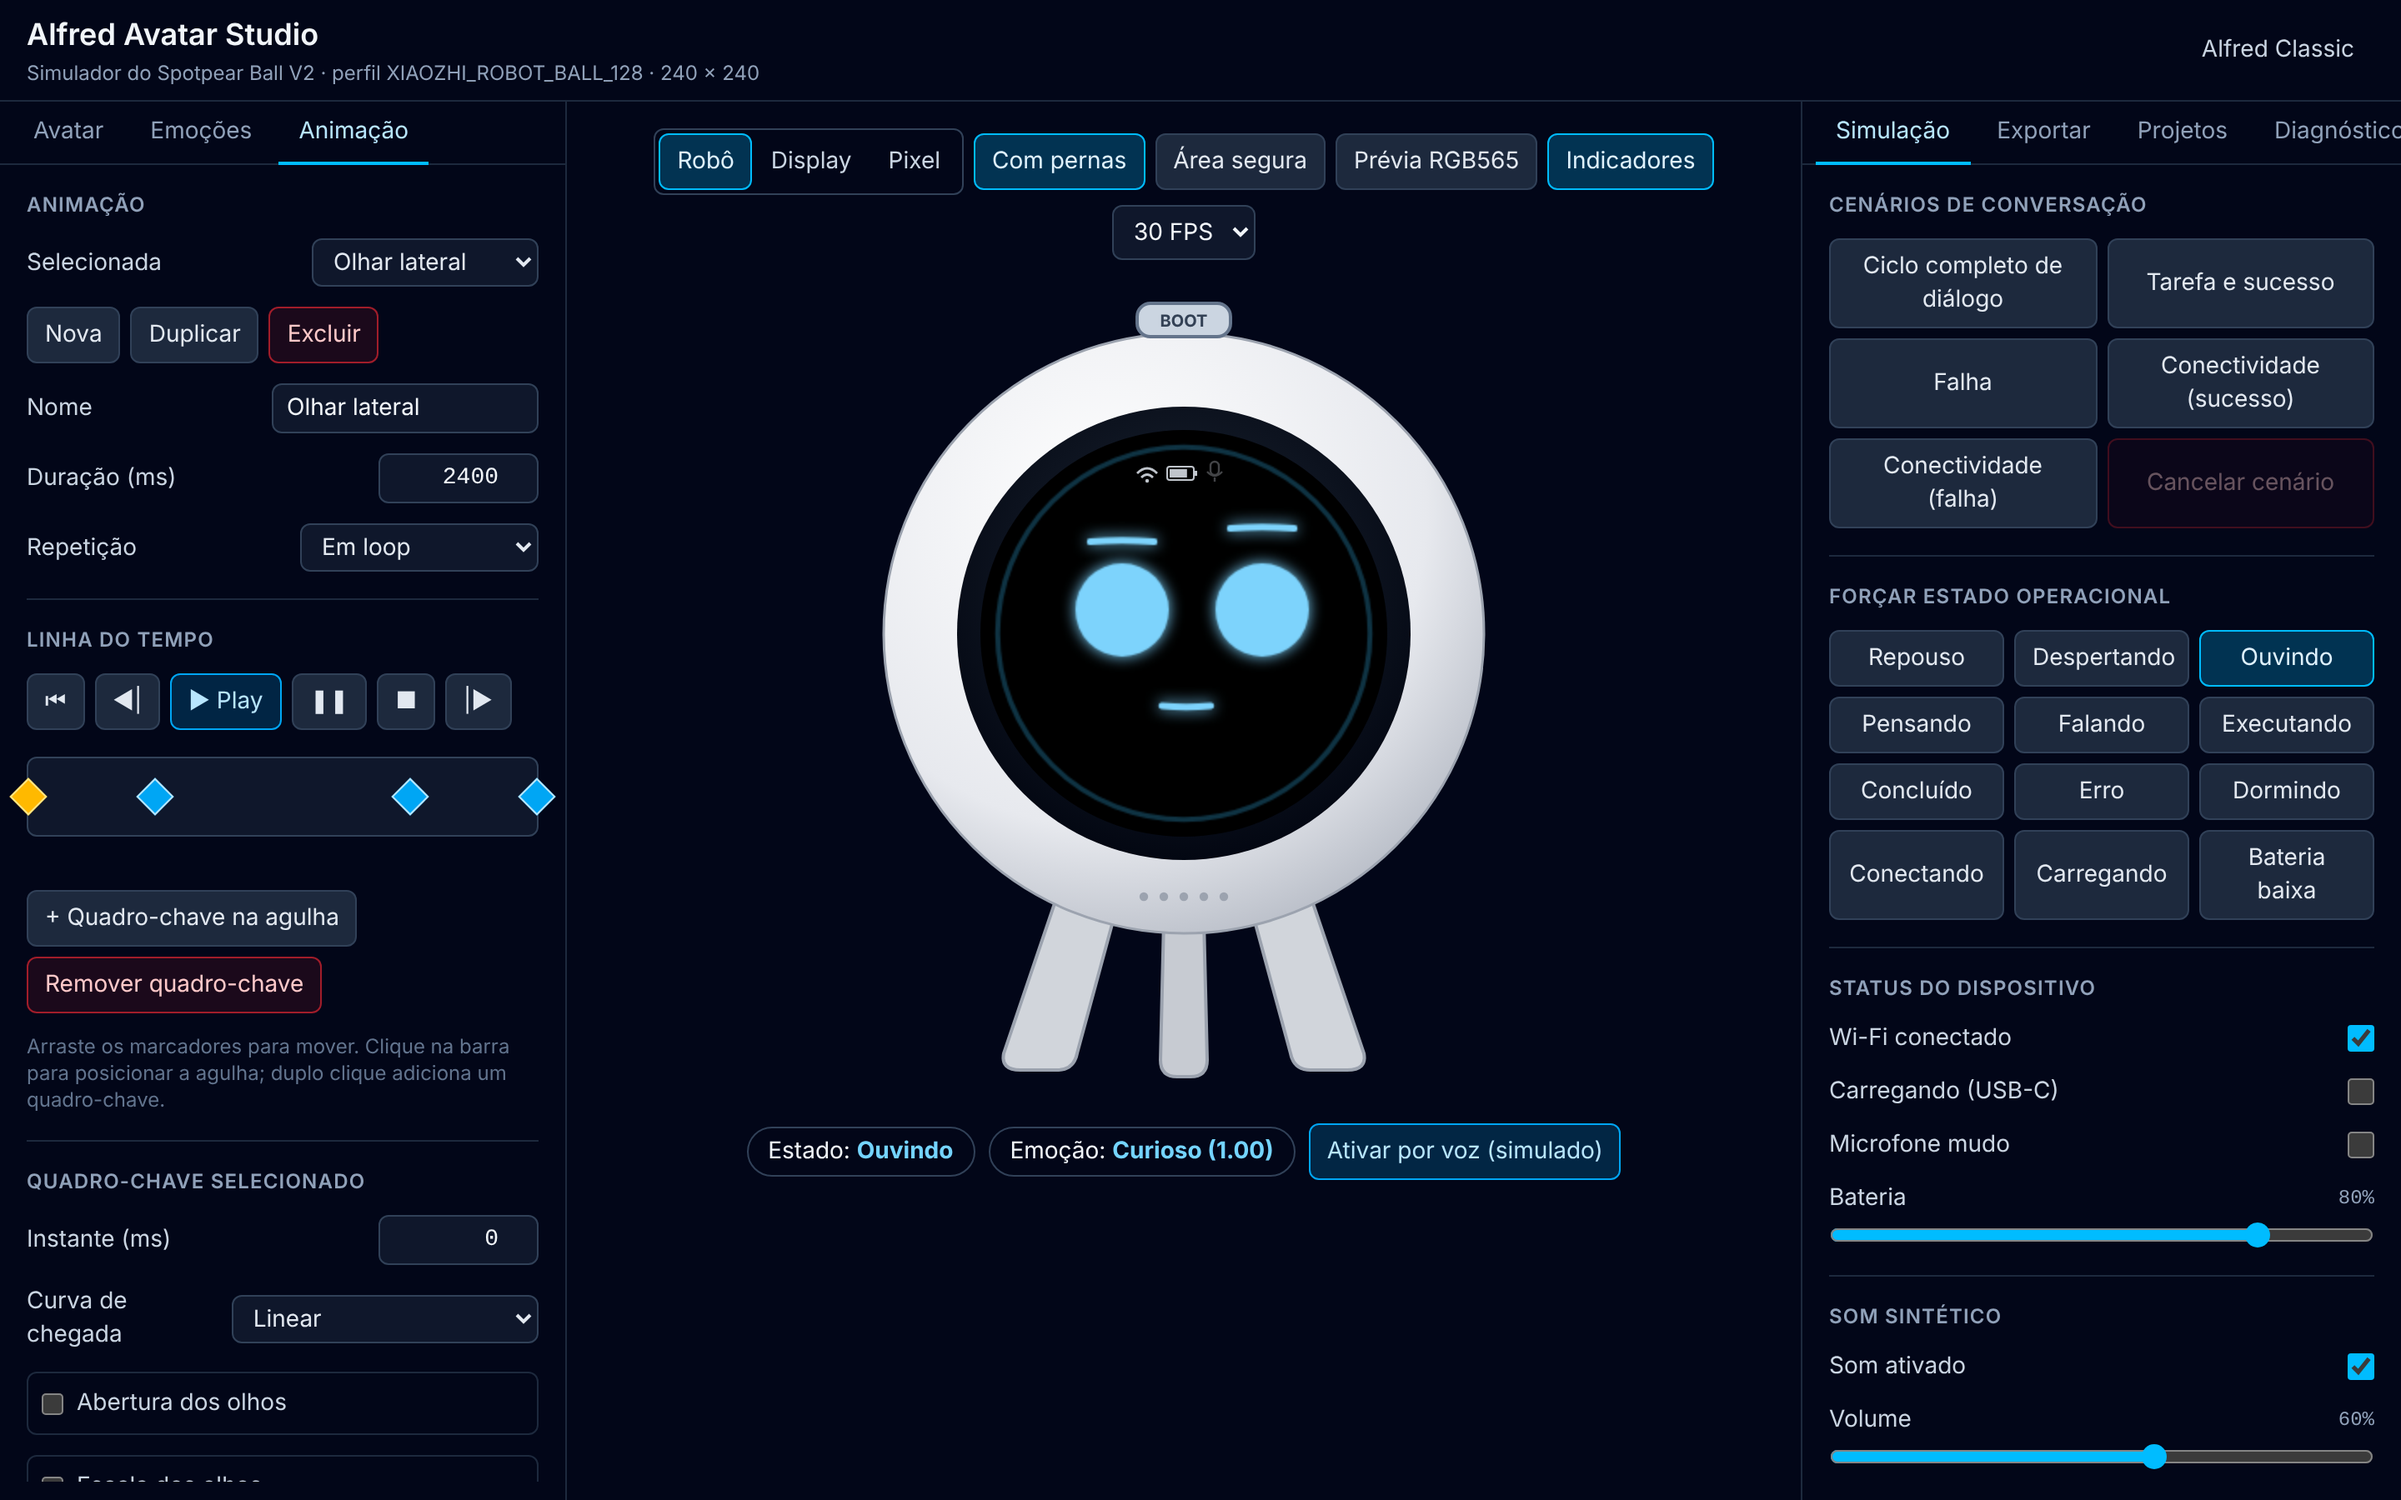
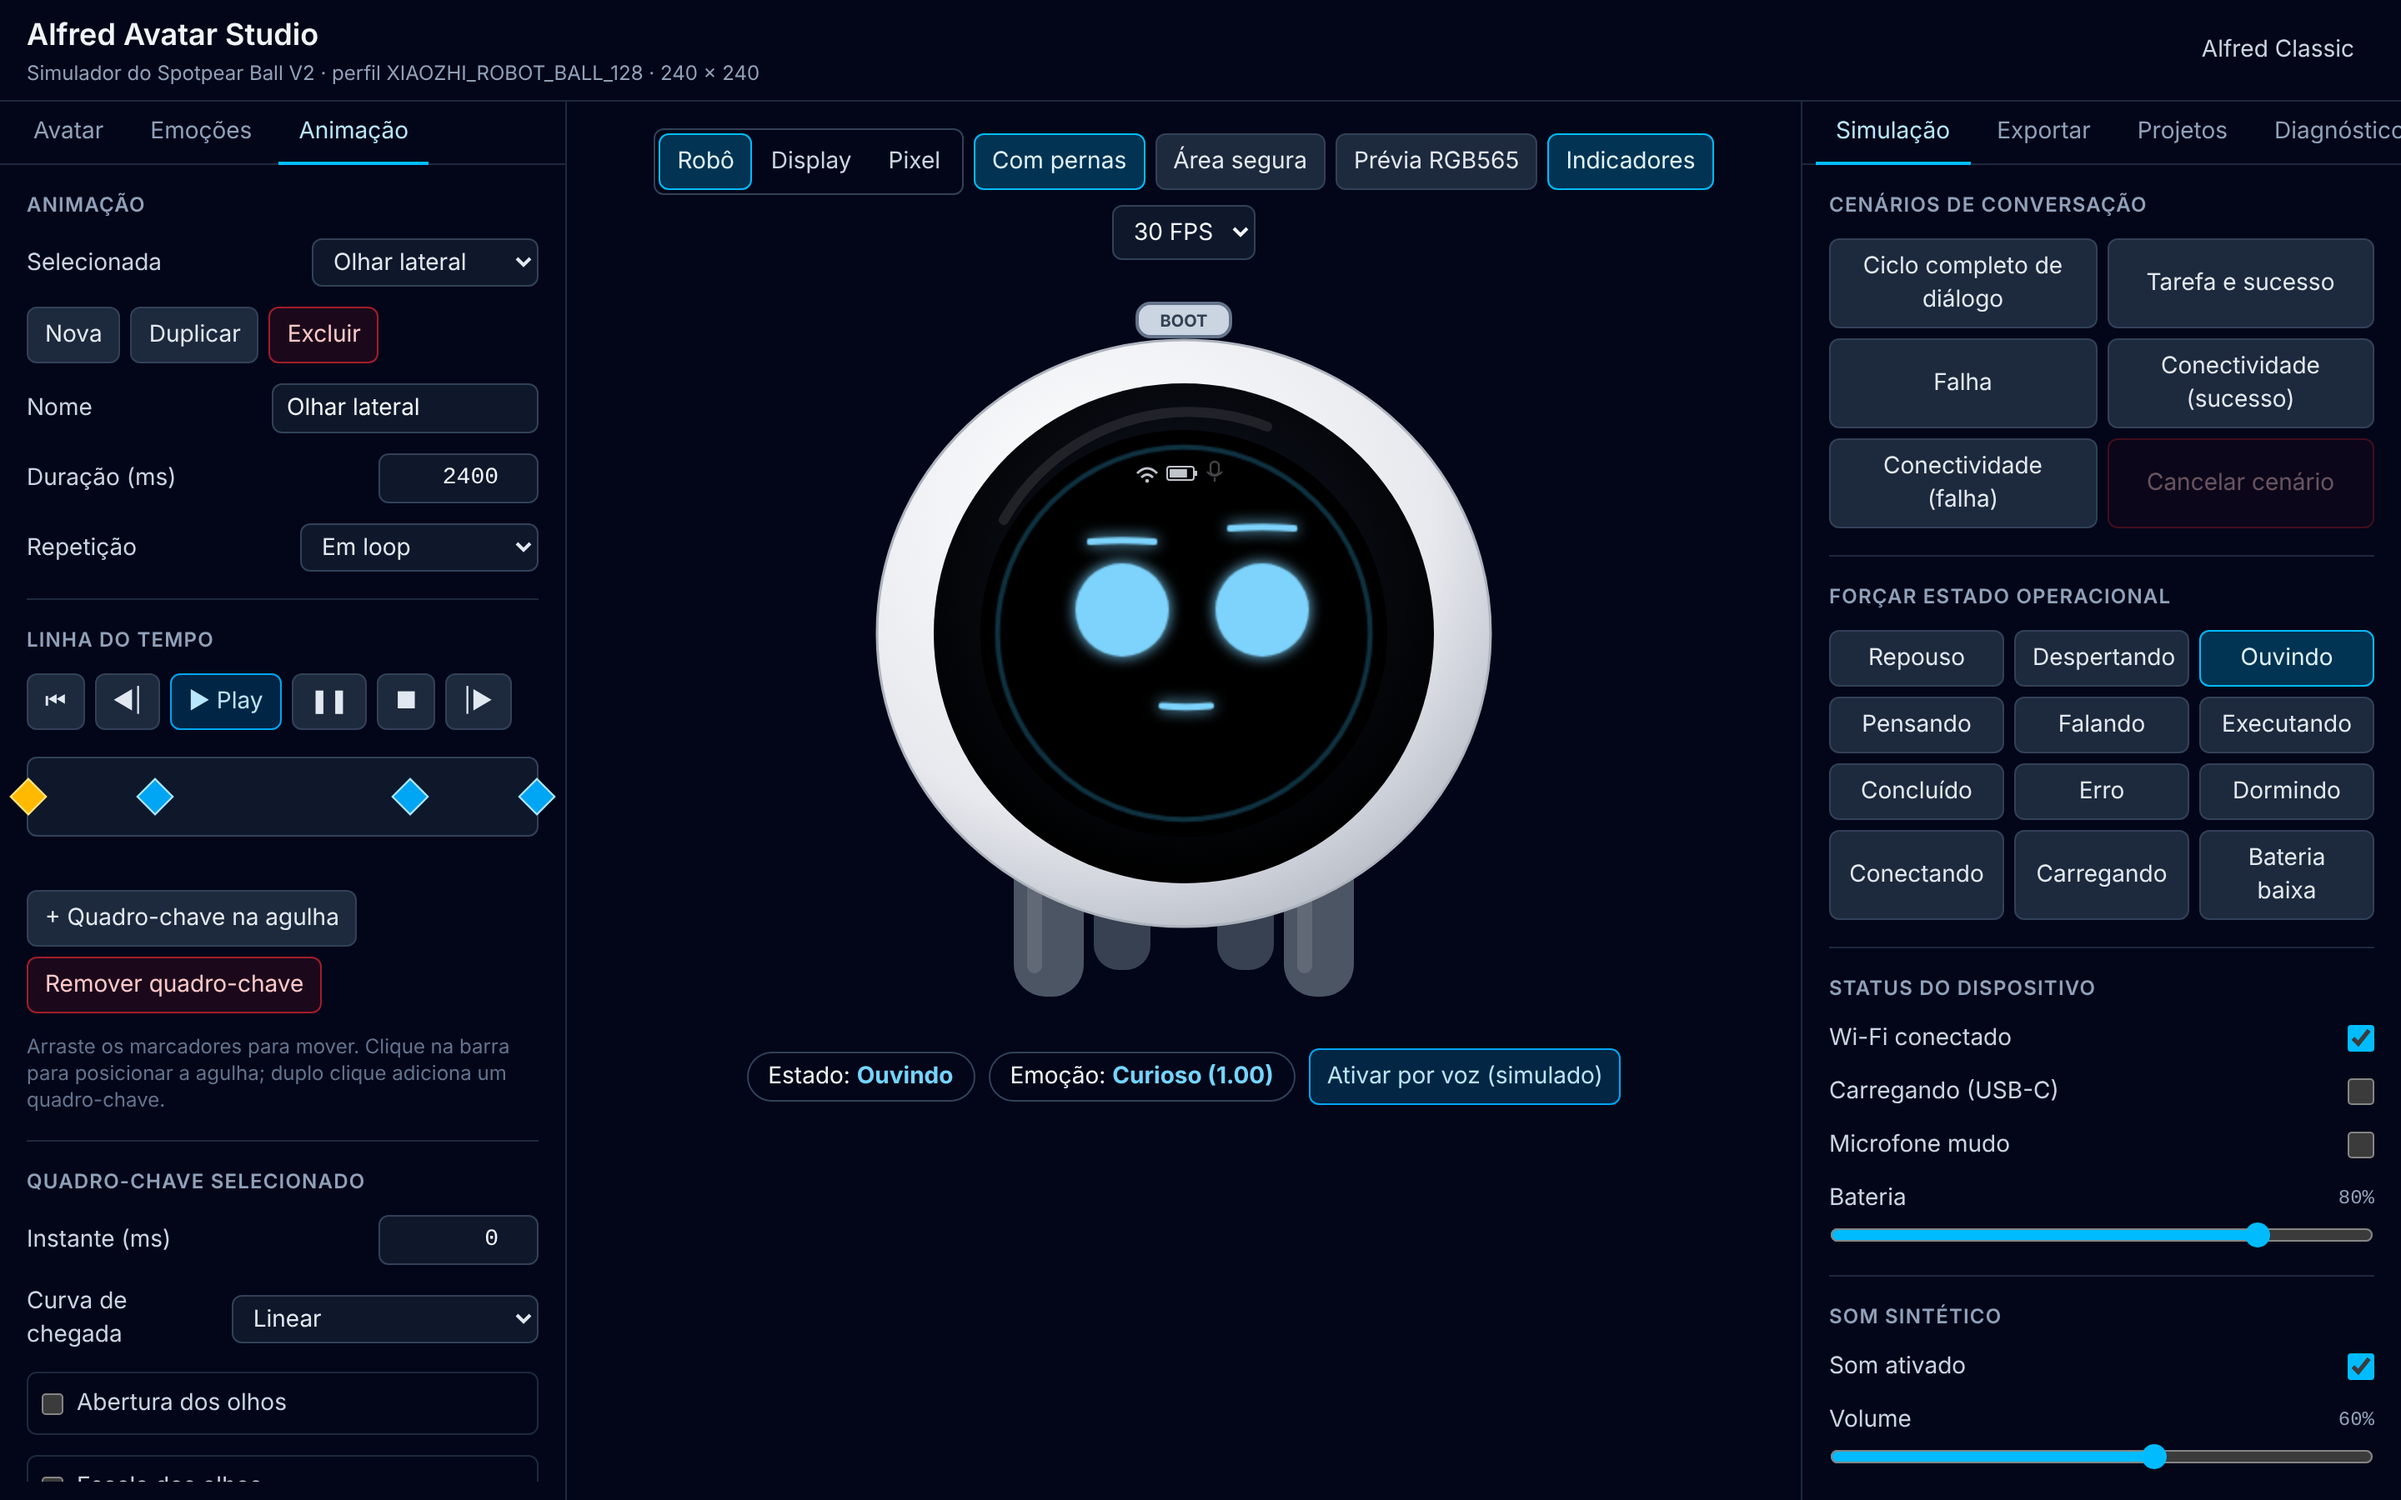
feat: corpo do robô fiel ao Spotpear Ball V2 (face preta ampla e 4 pés curtos)
Claude-Session: https://claude.ai/code/session_01SmMtULYLecDiYmpatJaops

Changed region(s): [[0.3125, 0.2178, 0.6875, 0.8089]]

diff --git a/src/ui/DeviceViewport.tsx b/src/ui/DeviceViewport.tsx
@@ -132,7 +132,7 @@ function DisplayCanvas({ cssSize, round, pixelated }: { cssSize: number; round: 
 
 function RobotBody({ showLegs }: { showLegs: boolean }) {
   const { sim, snap } = useSim();
-  const height = showLegs ? 470 : 410;
+  const height = showLegs ? 425 : 385;
   return (
     <svg
       data-testid="robot-body"
@@ -149,26 +149,27 @@ function RobotBody({ showLegs }: { showLegs: boolean }) {
           <stop offset="100%" stopColor="#B8BDC7" />
         </radialGradient>
         <radialGradient id="bezel" cx="50%" cy="40%" r="60%">
-          <stop offset="0%" stopColor="#1F2937" />
-          <stop offset="100%" stopColor="#030712" />
+          <stop offset="0%" stopColor="#111827" />
+          <stop offset="100%" stopColor="#000000" />
         </radialGradient>
       </defs>
       {showLegs && (
-        <g data-testid="robot-legs" fill="#D1D5DB" stroke="#9CA3AF" strokeWidth="2">
-          <path d="M130 340 L92 452 Q90 462 102 462 L124 462 Q134 462 136 452 L162 356 Z" />
-          <path d="M270 340 L308 452 Q310 462 298 462 L276 462 Q266 462 264 452 L238 356 Z" />
-          <path d="M188 372 L186 456 Q186 466 196 466 L204 466 Q214 466 214 456 L212 372 Z" fill="#C7CBD2" />
+        // Quatro pés curtos e removíveis, em cinza-escuro (como no Spotpear Ball V2).
+        <g data-testid="robot-legs">
+          <rect x="146" y="336" width="34" height="66" rx="15" fill="#374151" />
+          <rect x="220" y="336" width="34" height="66" rx="15" fill="#374151" />
+          <rect x="98" y="322" width="42" height="96" rx="19" fill="#4B5563" />
+          <rect x="260" y="322" width="42" height="96" rx="19" fill="#4B5563" />
+          <rect x="106" y="330" width="9" height="74" rx="4.5" fill="#6B7280" opacity="0.7" />
+          <rect x="268" y="330" width="9" height="74" rx="4.5" fill="#6B7280" opacity="0.7" />
         </g>
       )}
-      <circle cx="200" cy="200" r="180" fill="url(#shell)" stroke="#9CA3AF" strokeWidth="1.5" />
-      <circle cx="200" cy="200" r="136" fill="url(#bezel)" />
+      {/* Carcaça branca fosca, levemente ovalada */}
+      <ellipse cx="200" cy="200" rx="184" ry="176" fill="url(#shell)" stroke="#AEB4BE" strokeWidth="1.5" />
+      {/* Face frontal preta brilhante que envolve o display */}
+      <circle cx="200" cy="200" r="150" fill="url(#bezel)" />
+      <path d="M92 132 A128 128 0 0 1 250 76" fill="none" stroke="#FFFFFF" strokeOpacity="0.10" strokeWidth="6" strokeLinecap="round" />
       <circle cx="200" cy="200" r="122" fill="#000" />
-      {/* Grade do alto-falante */}
-      <g fill="#9CA3AF">
-        {[-24, -12, 0, 12, 24].map((dx) => (
-          <circle key={dx} cx={200 + dx} cy={358} r="2.6" />
-        ))}
-      </g>
       {/* Botão físico Boot (GPIO 0) na parte superior */}
       <g
         data-testid="gpio0-button"
@@ -200,7 +201,7 @@ export function DeviceViewport() {
   const { showLegs } = state.project.device;
 
   if (mode === 'robot') {
-    const h = showLegs ? 470 : 410;
+    const h = showLegs ? 425 : 385;
     return (
       <div data-testid="device-viewport" data-mode="robot" className="relative" style={{ width: 400, height: h }}>
         <RobotBody showLegs={showLegs} />

diff --git a/e2e/fase1/simulador.spec.ts b/e2e/fase1/simulador.spec.ts
@@ -118,7 +118,7 @@ test.describe('Fase 1 @f1', () => {
     if (!body) throw new Error('corpo não visível');
     await page.mouse.click(body.x + 70, body.y + 200); // moldura/carcaça
     await page.mouse.click(body.x + 30, body.y + 200); // carcaça
-    await page.mouse.click(body.x + 110, body.y + 440); // perna
+    await page.mouse.click(body.x + 119, body.y + 405); // perna dianteira
     expect(await bridge<unknown[]>(page, 'getTouchHistory')).toEqual([]);
     expect(await getState(page)).toBe('idle');
   });
